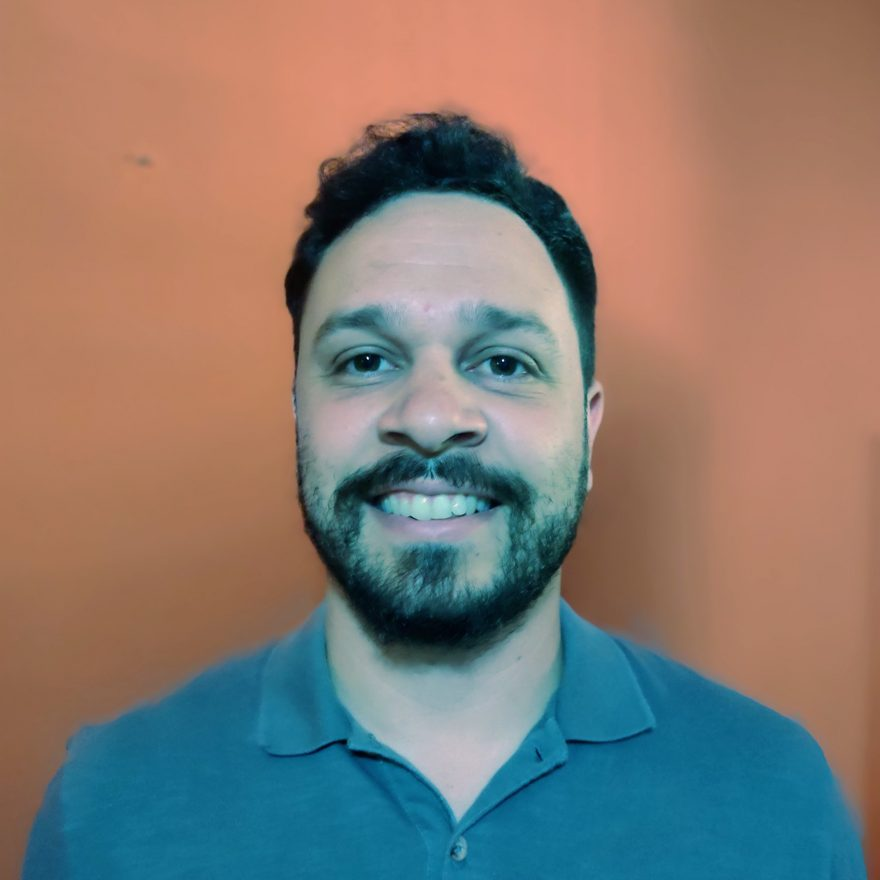
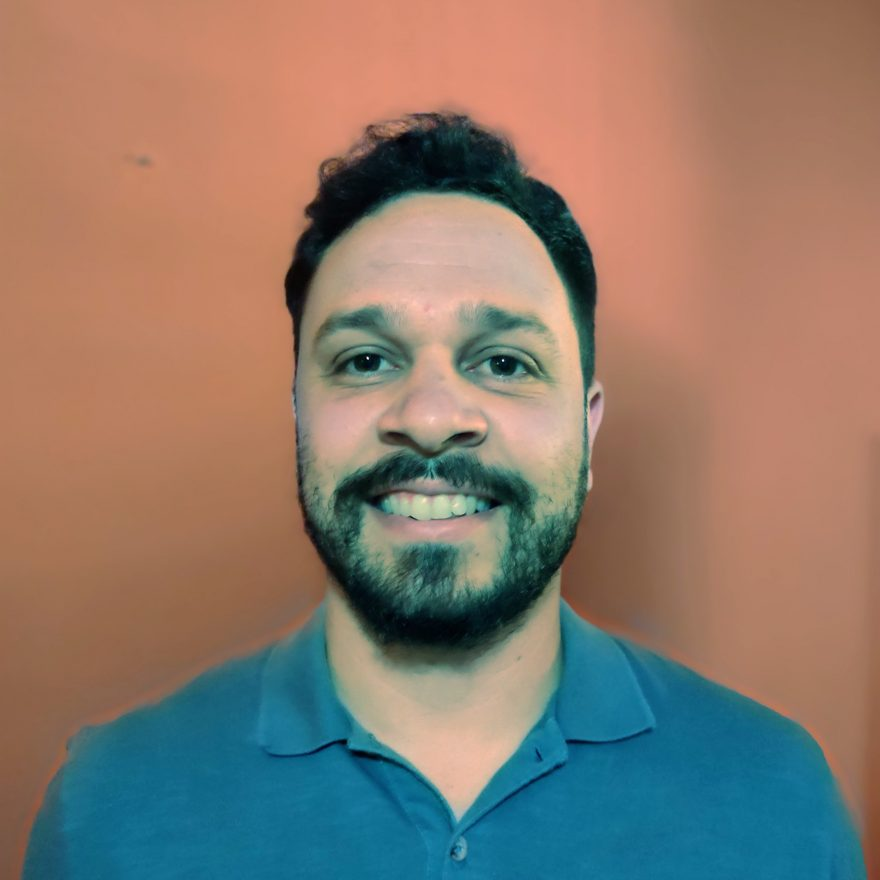
Corregir el balance de blancos de la foto del hero

diff --git a/README.md b/README.md
@@ -227,9 +227,11 @@ primer contacto con la herramienta.
   colorido, tipografía que no fuera la genérica de todos los portafolios, y nada de emojis en el
   sitio, el README ni los mensajes de commit.
 
-**Imágenes:** la foto del hero es una foto propia; solo se recortó a formato cuadrado y se optimizó
-para web. **No hay imágenes generadas ni intervenidas con IA en este proyecto.** La captura de
-tuConsulta.com.ar es del sitio real, tomado del proyecto que desarrollé.
+**Imágenes:** la foto del hero es una foto propia. Se recortó a formato cuadrado, se optimizó para
+web y se le corrigió el balance de blancos, porque la original tenía luz mixta: la pared cálida y mi
+cara con un dominante azulado. La corrección es un ajuste clásico de ganancia por canal aplicado con
+un script de Pillow, no un retoque con IA generativa. **No hay imágenes generadas ni recreadas con
+IA en este proyecto.** La captura de tuConsulta.com.ar es del sitio real que desarrollé.
 
 ---
 
